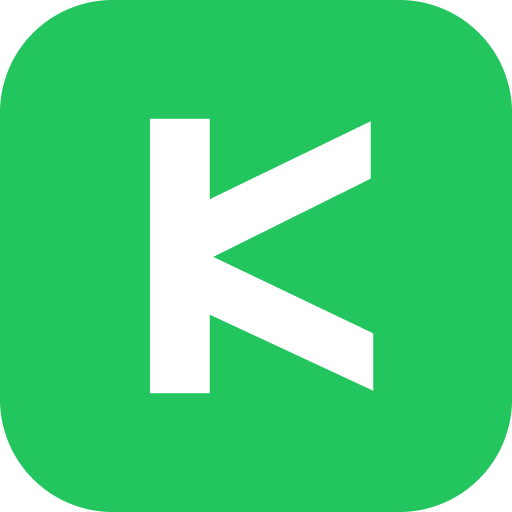
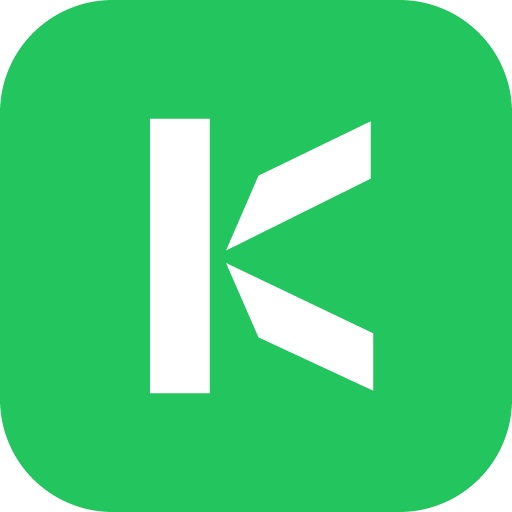
ไอคอน KiloEV: ปรับให้เป็นเอกลักษณ์ขึ้น — แขนลอย ช่องลิ่ม
K ตัวเดิมอ่านออกดีแต่เป็นตัวอักษรเรียบๆ ขาดความเป็นตัวเอง

- แขนสองข้างไม่ติดขา เว้นช่องไว้ ดูเป็นโลโก้ที่ตั้งใจออกแบบ
- ปลายแขนด้านในตัดเฉียงสวนทางกัน แขนเรียวแหลมเข้าหากึ่งกลาง
  ช่องว่างกลายเป็นรูปลิ่มคล้ายประกายไฟ ได้อารมณ์สายฟ้าเดิมกลับมา
- ยังเป็นรูปทรงแบนราบสามชิ้น จึงยังมินิมอลและอ่านออกที่ 16px

เลื่อน VERSION ใน sw.js เป็น v3 พร้อมกัน ไม่งั้นจะติดแคชเหมือนรอบก่อน
เก็บแบบที่ลองแล้วตกไปไว้ใน doc/icon-concepts.png พร้อมเหตุผลใน plan.txt

ตรวจแล้ว: PNG ทั้งสี่ไฟล์ถูกต้อง · ชุดทดสอบ PWA 43 ข้อ ผ่านหมด

Changed region(s): [[0.4062, 0.3438, 0.5, 0.6562]]

diff --git a/doc/make-icons.js b/doc/make-icons.js
@@ -3,7 +3,8 @@
  * ใช้ zlib ที่ติดมากับ Node เข้ารหัสข้อมูลภาพ แล้วประกอบ chunk ของ PNG เอง
  *
  * รูปเป็นตัว K สีขาวบนพื้นเขียว Electric Green (#22C55E)
- * ปลายแขนตัดแนวตั้งให้แหลมคม คงอารมณ์สายฟ้าของโลโก้เดิมไว้
+ * แขนสองข้างลอยห่างจากขา และเรียวแหลมเข้าหากึ่งกลาง
+ * ช่องว่างที่เกิดขึ้นเป็นรูปลิ่มคล้ายประกายไฟ คงอารมณ์สายฟ้าของโลโก้เดิมไว้
  * วาดด้วย supersample 4x4 ต่อพิกเซล ขอบจึงเนียนไม่หยัก
  */
 const fs = require('fs');
@@ -62,9 +63,9 @@ function encodePng(w, h, rgba) {
  * ลำดับจุดต้องวนรอบรูปโดยไม่ตัดกันเอง ไม่งั้นการทดสอบ point-in-polygon จะเพี้ยน
  */
 const MARK = [
-  [[7.5, 5], [12.3, 5], [12.3, 27], [7.5, 27]],                 // ขา
-  [[9.5, 12.8], [25.2, 5.2], [25.2, 9.8], [9.5, 17.6]],         // แขนบน
-  [[9.5, 14.6], [25.4, 22.2], [25.4, 26.8], [9.5, 19.4]],       // แขนล่าง
+  [[7.5, 5], [12.3, 5], [12.3, 27], [7.5, 27]],                    // ขา
+  [[16.2, 9.56], [25.2, 5.2], [25.2, 9.8], [13.6, 15.56]],         // แขนบน เรียวแหลมเข้าหาขา
+  [[13.6, 16.56], [25.4, 22.2], [25.4, 26.8], [16.2, 22.52]],      // แขนล่าง
 ];
 
 function inPolygon(px, py, poly) {

diff --git a/public/sw.js b/public/sw.js
@@ -14,7 +14,7 @@
 
 // ต้องเลื่อนเวอร์ชันนี้ทุกครั้งที่ไฟล์ใน PRECACHE หรือไอคอนเปลี่ยน
 // เพราะ activate ลบเฉพาะแคชที่ชื่อไม่ตรงกับเวอร์ชันปัจจุบัน ชื่อเดิม = แคชเก่ารอด
-const VERSION = 'v2';
+const VERSION = 'v3';
 const STATIC_CACHE = `evlog-static-${VERSION}`;
 const PAGE_CACHE = `evlog-pages-${VERSION}`;
 const OFFLINE_URL = '/offline.html';
